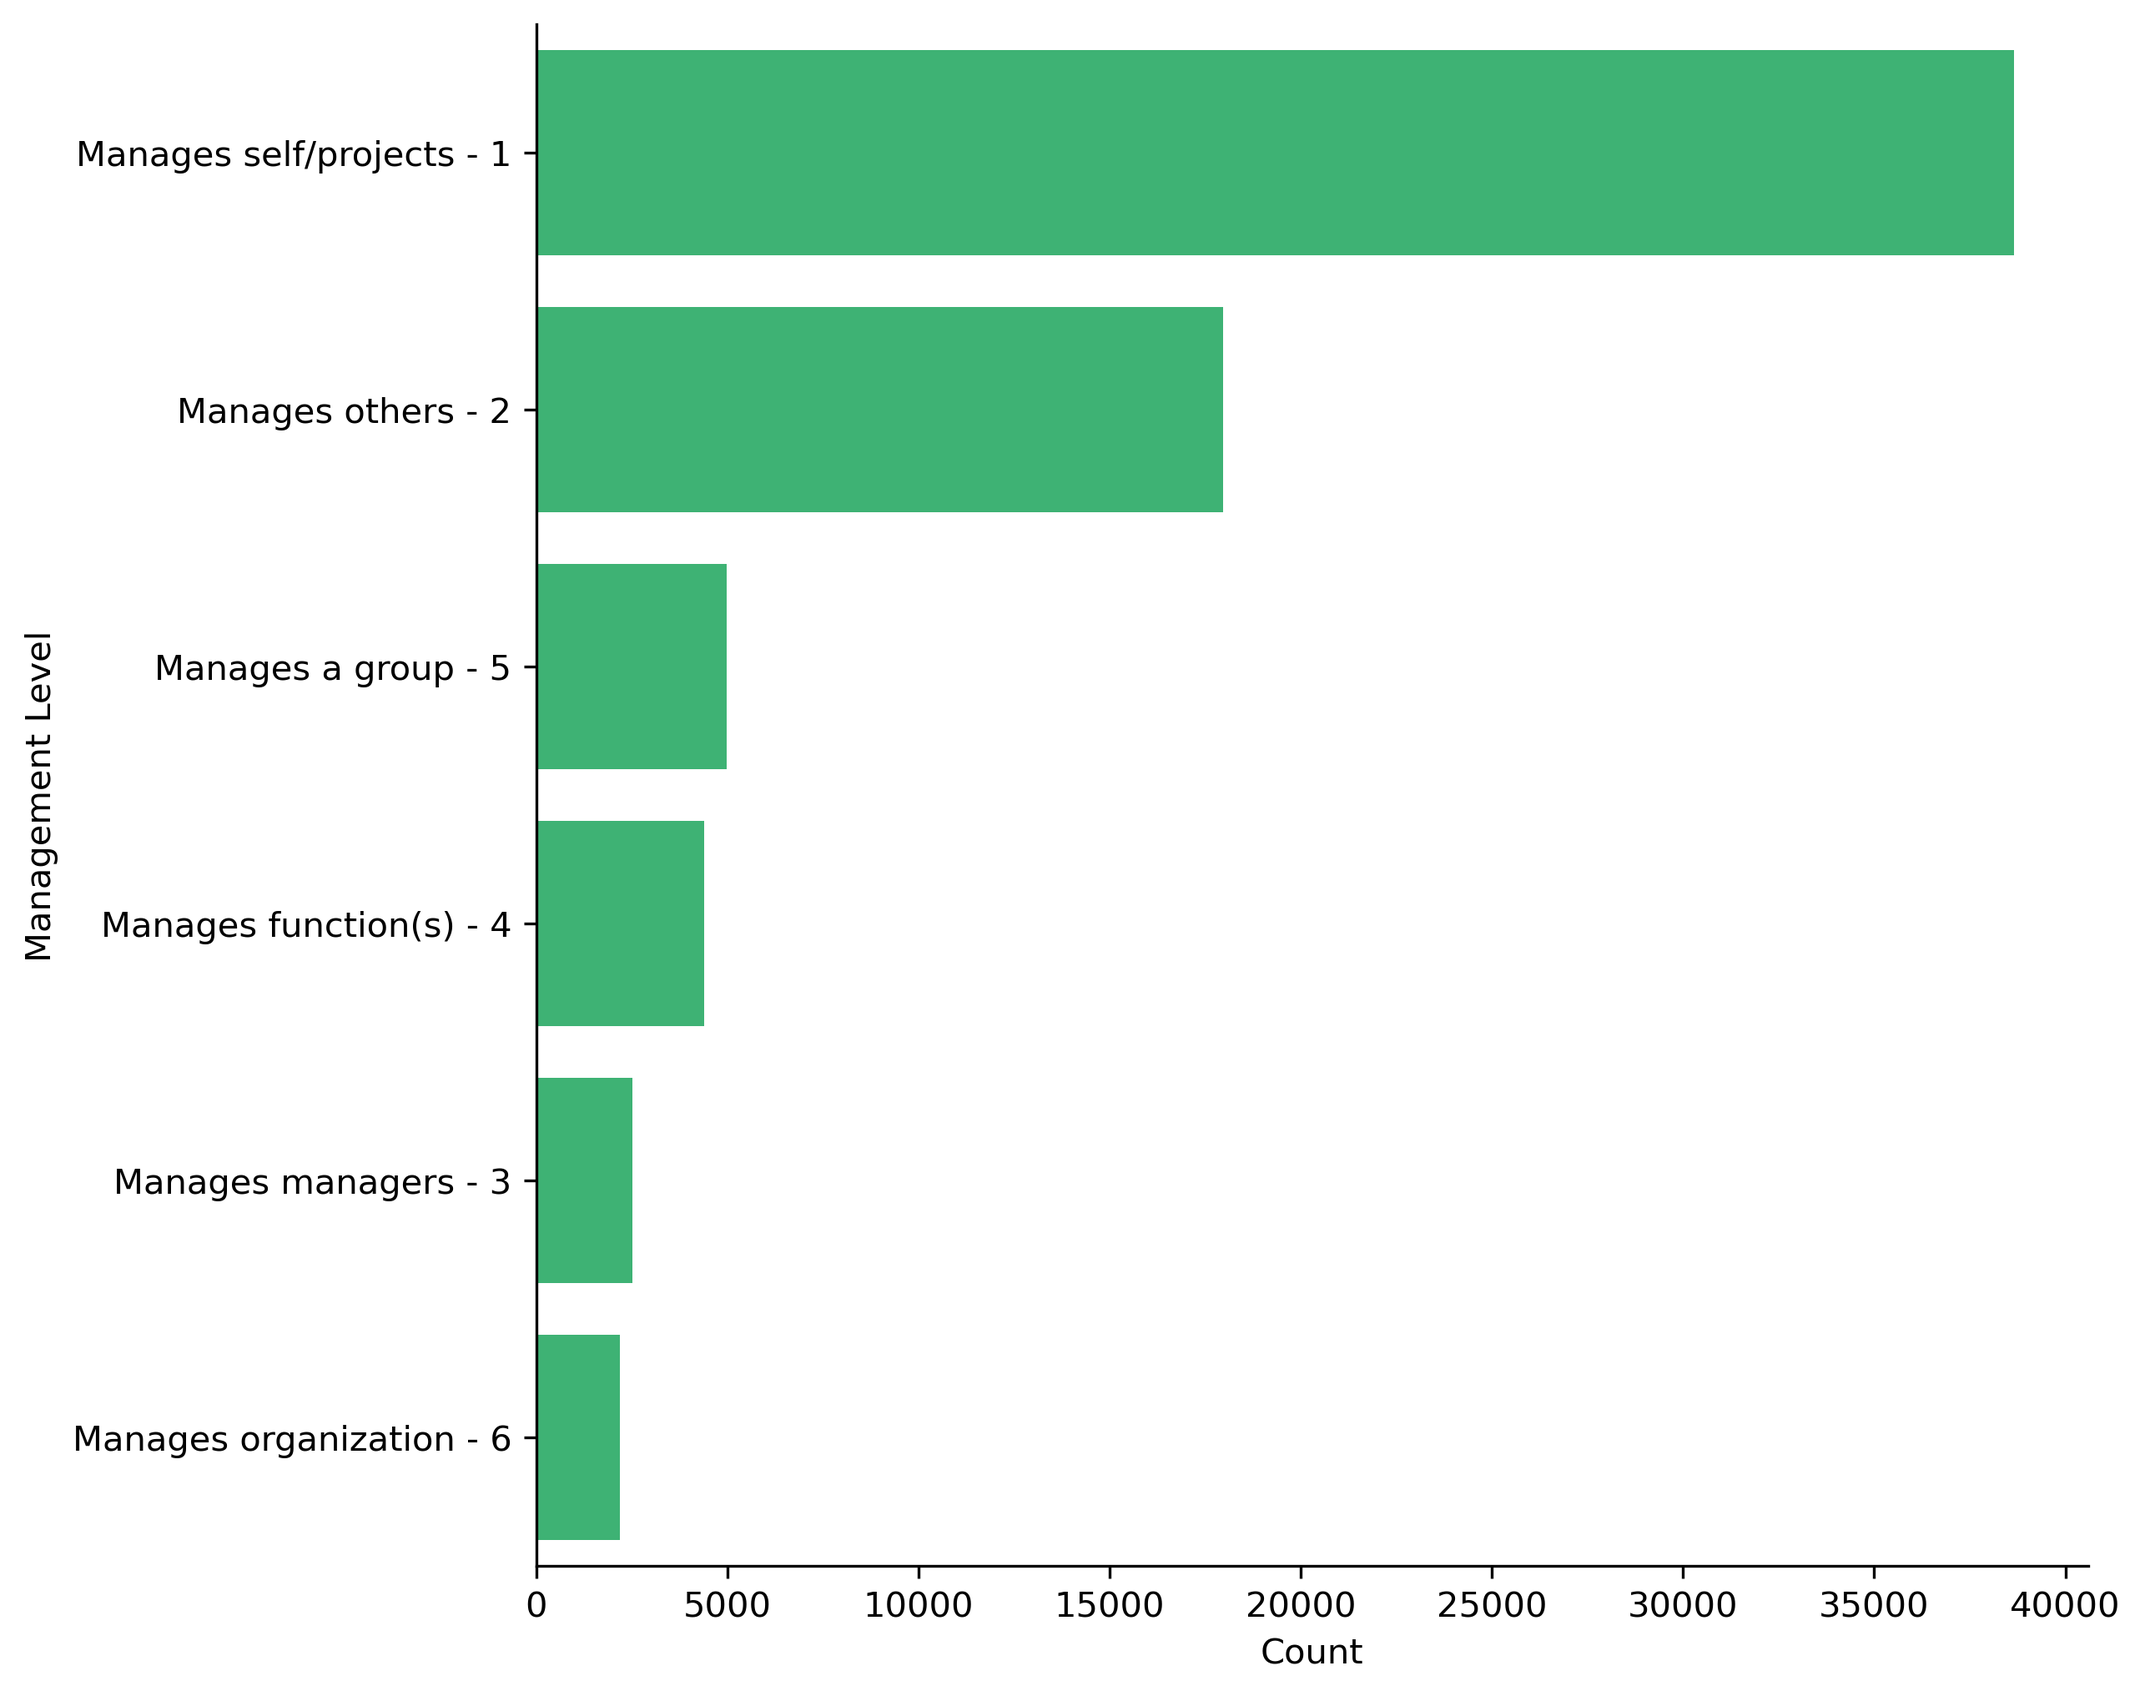
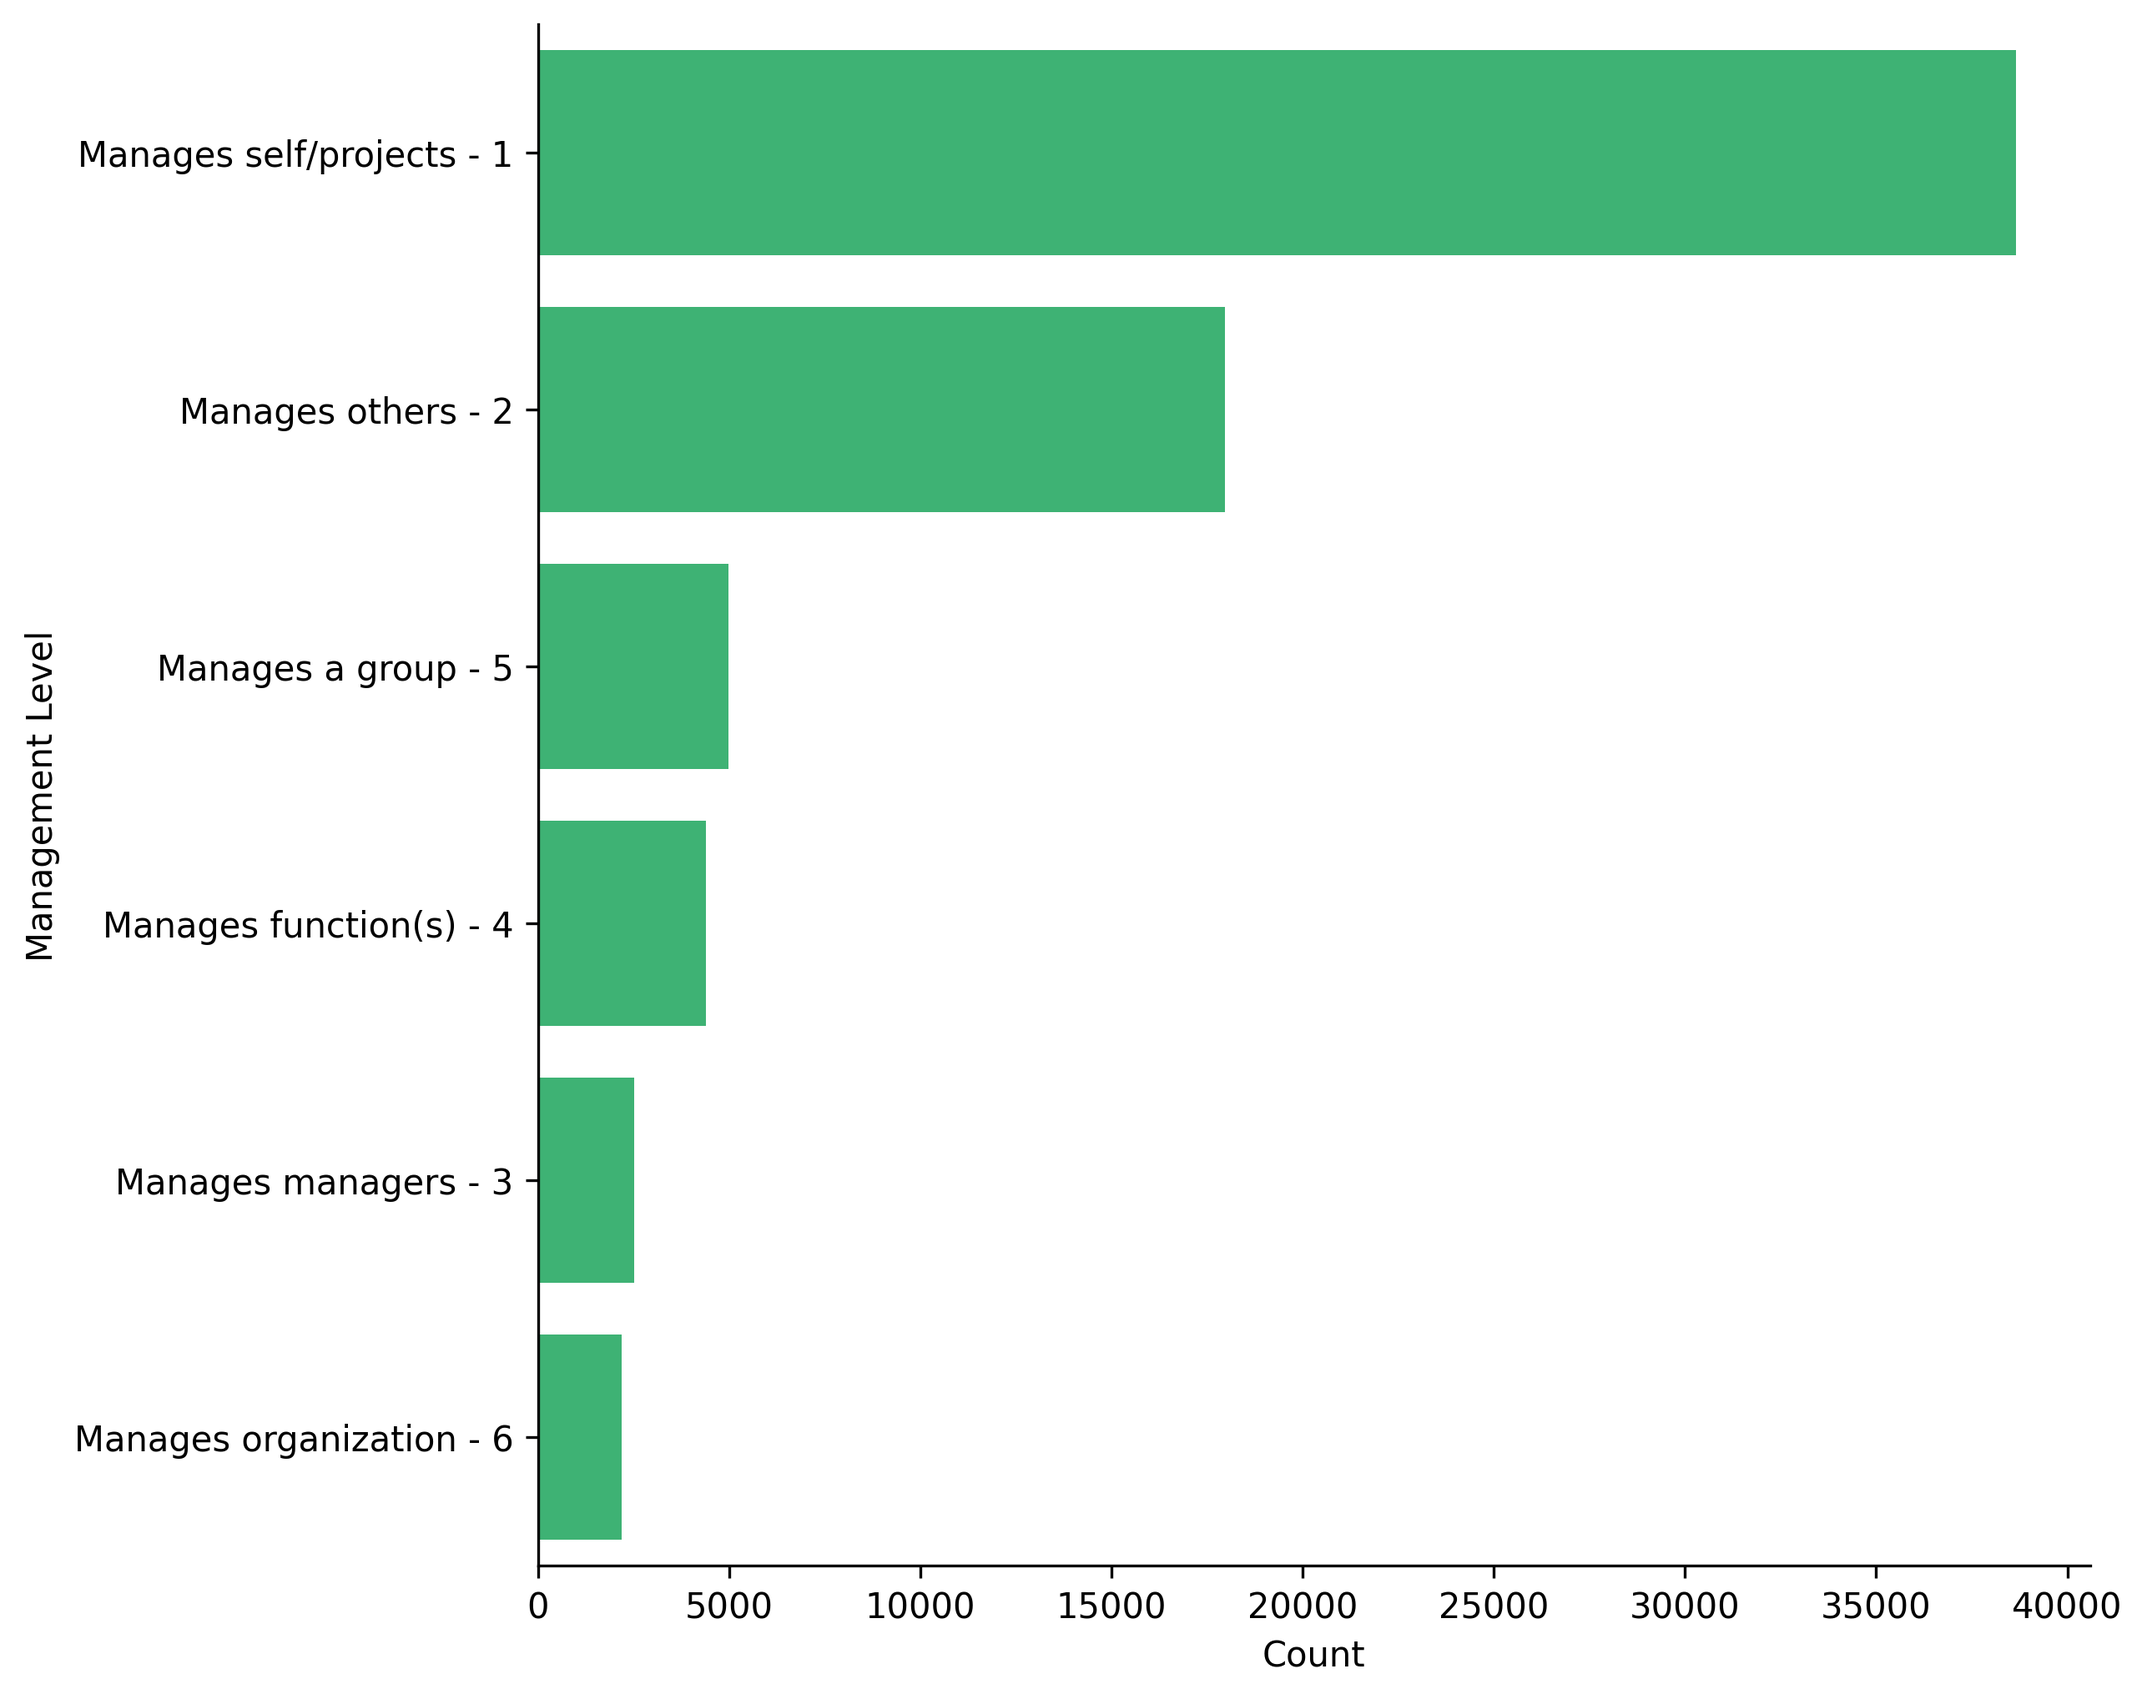
fixed minor error and added requirements to txt file

diff --git a/scripts/clean_aff_data.py b/scripts/clean_aff_data.py
@@ -11,7 +11,7 @@ import seaborn as sns
 project_root = Path(__file__).resolve().parent.parent
 
 full_data_dir = project_root / "data" / "full"
-out_vis_dir = project_root / "output" / "cleaned_data"
+out_vis_dir = project_root / "outputs" / "visualizations" / "cleaned_data"
 sample_data_dir = project_root / "data" 
 
 full_data_dir.mkdir(parents=True, exist_ok=True)
